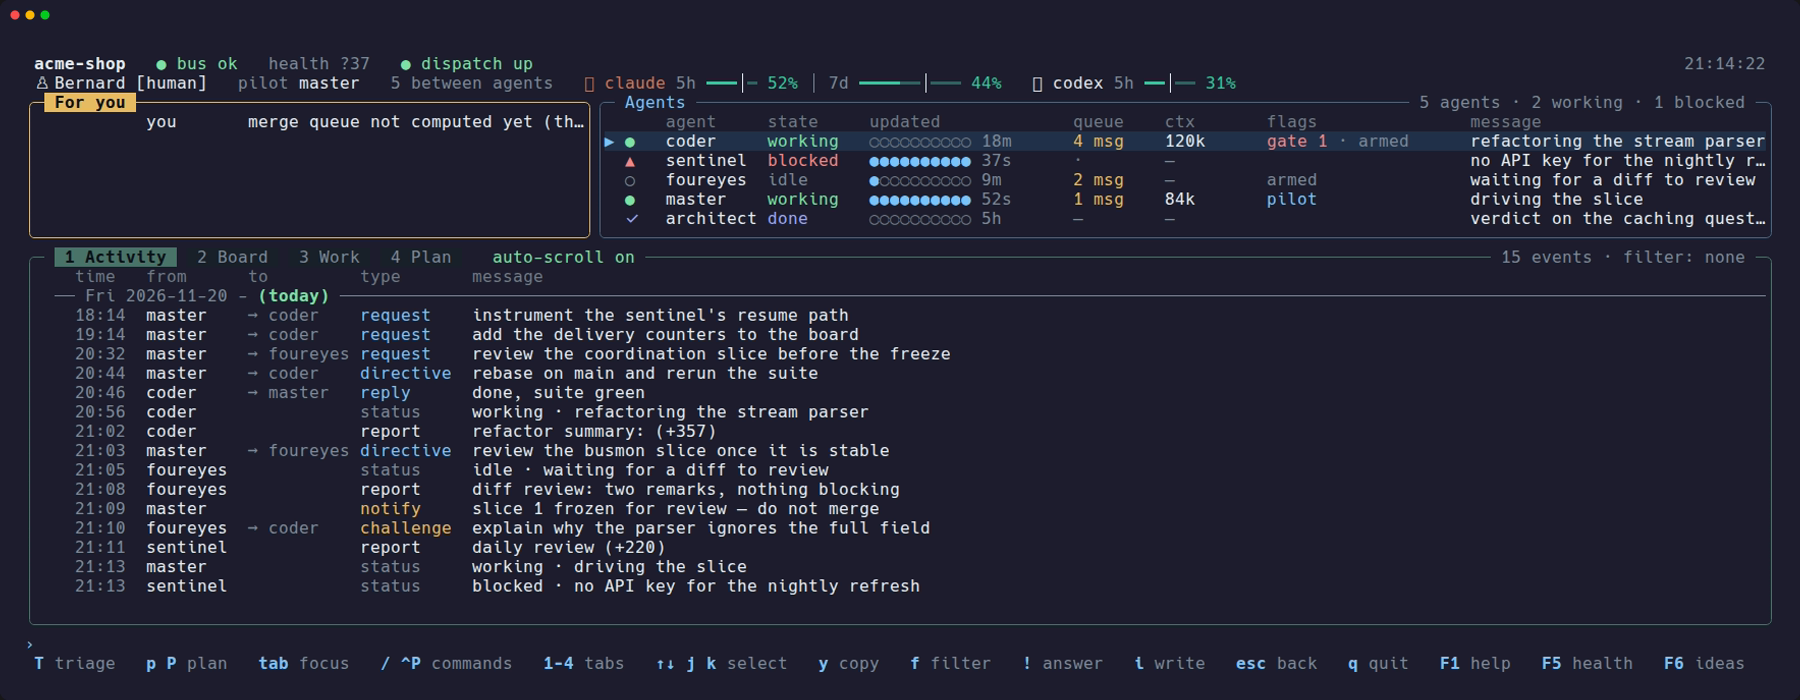
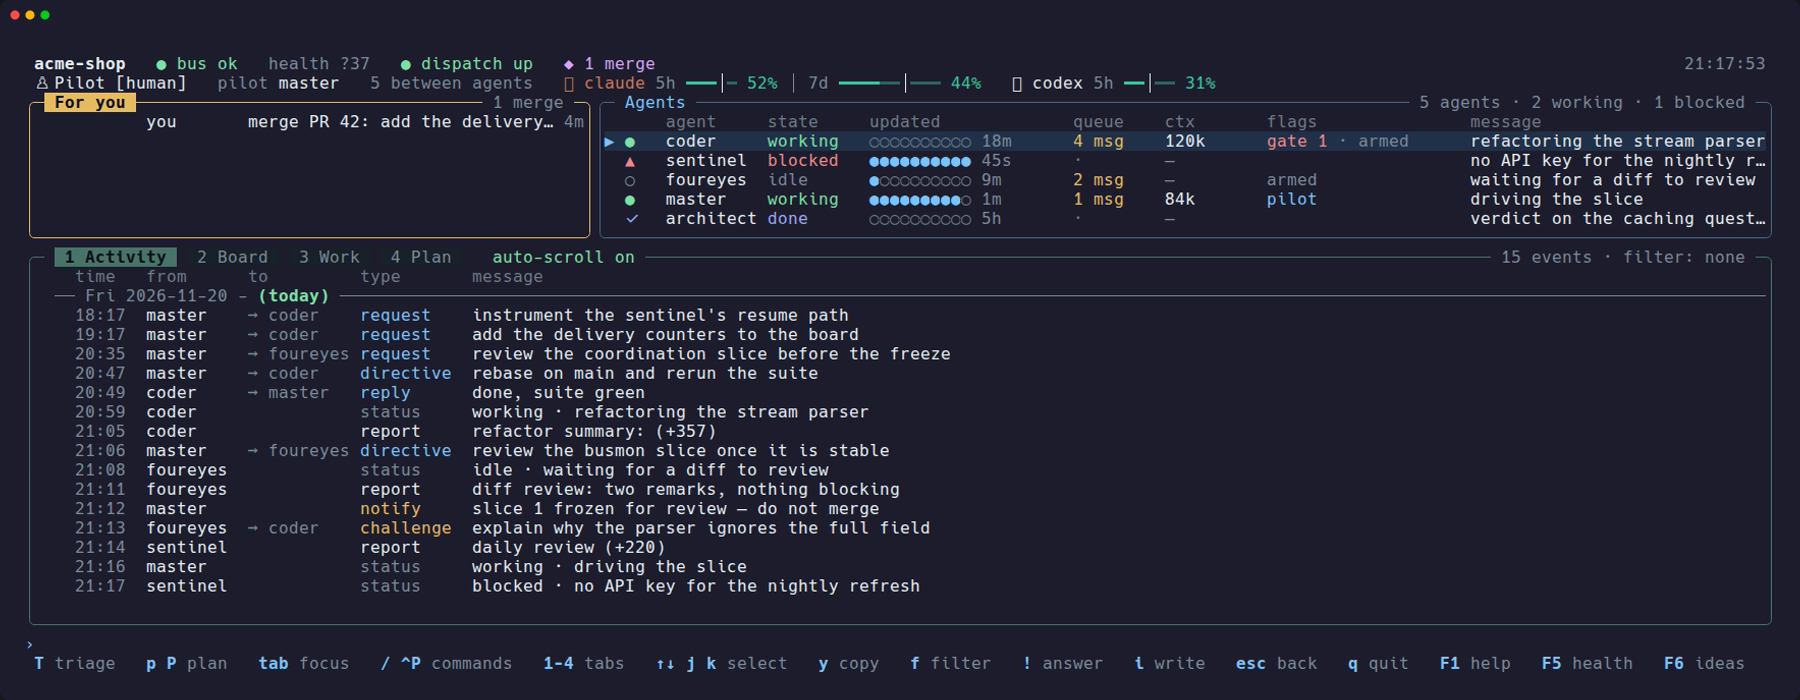
docs: busmon screenshot shows the neutral identity, a computed merge queue and a settled screen; the demo pins AGENT_BUS_HUMAN=pilot and seeds the merge queue; README alt text matches the image

diff --git a/README.md b/README.md
@@ -16,7 +16,7 @@ It aims to stay **small and light on your LLM subscriptions**:
 - **A one-line wake.** One dispatcher types a single fixed line into an agent's terminal when work is waiting for it.
 - **Local readings.** Usage windows and context fill are read from local files.
 
-<p align="center"><img src="docs/assets/busmon.png" alt="busmon showing the fictional acme-shop project: five agents, the activity feed, the task board and the tracked requests" width="900"></p>
+<p align="center"><img src="docs/assets/busmon.png" alt="busmon showing the fictional acme-shop project: five agents, what waits for the person and the activity feed" width="900"></p>
 
 <p align="center"><sub>busmon on a fictional project (<code>acme-shop</code>), seeded by <code>scripts/busmon-demo.sh</code>.</sub></p>
 
